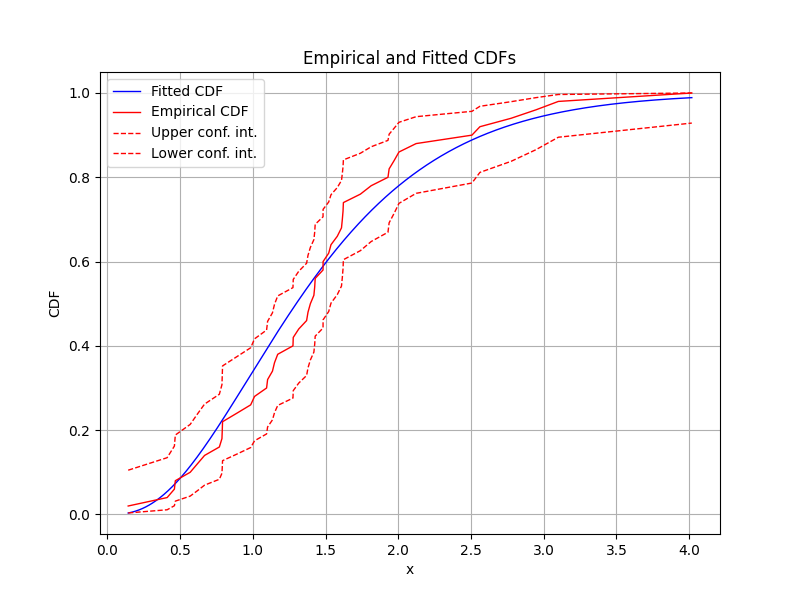
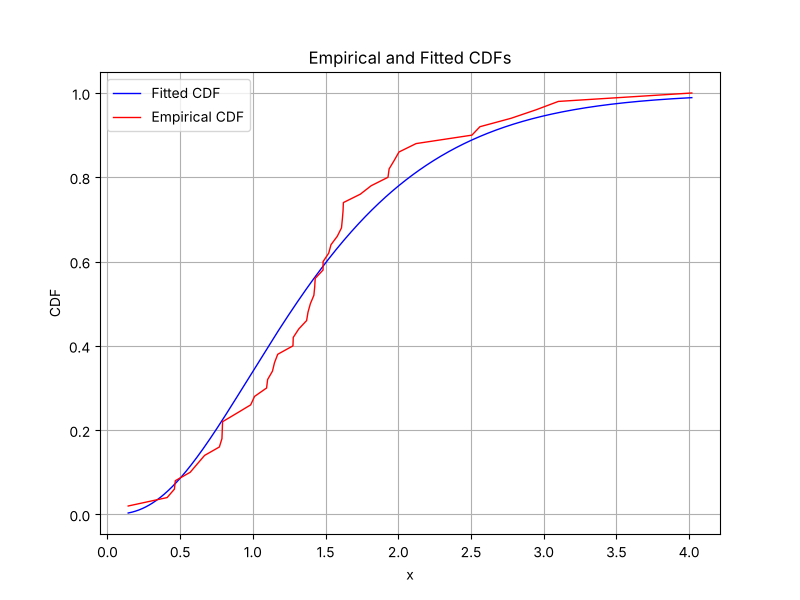
Updated Readme and other various

diff --git a/README.md b/README.md
@@ -1,17 +1,25 @@
+<img src="https://raw.githubusercontent.com/areenberg/phasedist/main/images/phasedist_fit.gif" alt="A phase-type distribution being fitted to bimodal data" width="700">
 
-<img src="https://github.com/areenberg/phasedist/blob/main/images/PhaseDist_logo.png" alt="Example" width="300">
+*A 12-phase continuous phase-type distribution fitted to 2000 bimodal observations using PhaseDist.*
+
+[![PyPI](https://img.shields.io/pypi/v/phasedist?logo=pypi&logoColor=white)](https://pypi.org/project/phasedist/)
+[![Python](https://img.shields.io/pypi/pyversions/phasedist?logo=python&logoColor=white)](https://pypi.org/project/phasedist/)
+[![Tests](https://github.com/areenberg/phasedist/actions/workflows/tests.yml/badge.svg)](https://github.com/areenberg/phasedist/actions/workflows/tests.yml)
+[![License](https://img.shields.io/badge/license-MIT-blue)](https://github.com/areenberg/phasedist/blob/main/LICENSE)
 
 PhaseDist is a Python package for fitting continuous and discrete phase-type distributions.
 
 ## Features
 
 * Fit continuous and discrete phase-type distributions using EM algorithms.
+* Fit to uncensored or censored observations.
+* Impose a structure on the fitted distribution, such as *Coxian*, *generalized Erlang*, or *hyper-exponential*.
 * Use built-in methods to check the fitted distribution.
 * Compute metrics, such as the mean, density, and quantile function.
 * Simulate observations from a phase-type distribution.
 * Approximate another distribution, e.g. a log-normal distribution, using a phase-type distribution.
 
-# Installation
+## Installation
 
 Install directly from PyPI with:
 
@@ -19,7 +27,7 @@ Install directly from PyPI with:
 pip install phasedist
 ```
 
-# Quick start guide
+## Quick start guide
 
 The following shows how to use PhaseDist for fitting a continuous phase-type distribution from observed data. 
 
@@ -51,7 +59,7 @@ fit = ph.fit(obs=obs,
 fit.plot()
 ```
 
-<img src="https://github.com/areenberg/phasedist/blob/main/images/quickstart_example_CDF.png" alt="Example" width="500">
+<img src="https://raw.githubusercontent.com/areenberg/phasedist/main/images/quickstart_example_CDF.png" alt="Empirical and fitted CDFs" width="500">
 
 (4) Store the fitted distribution in the object `phdist` and compute the mean, variance, and 95% quantile.
 
@@ -62,14 +70,18 @@ print(phdist.getmean())
 #1.455814
 
 print(phdist.getvar())
-#0.706466
+#0.706465
 
 print(phdist.getquantile(p=0.95))
-#3.055169
+#3.055168
 ```
 
 Find the complete example in the file `quickstart_example.py`.
 
-# Documentation
+## Documentation
 
 The documentation can be found in the [wiki for PhaseDist](https://github.com/areenberg/phasedist/wiki).
+
+## License
+
+PhaseDist is released under the [MIT License](https://github.com/areenberg/phasedist/blob/main/LICENSE).
